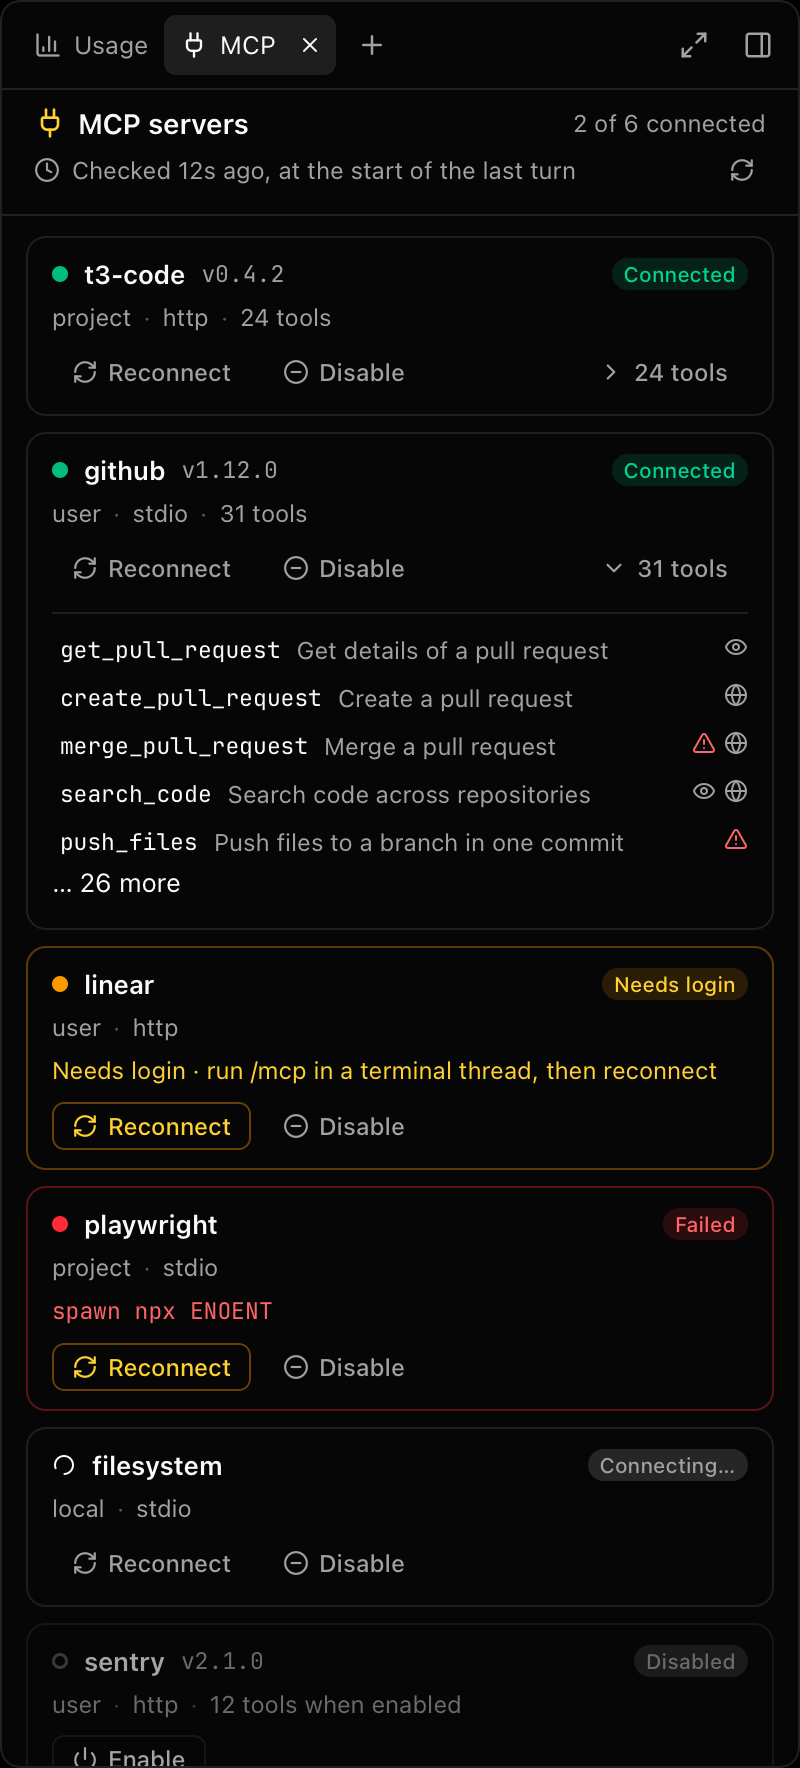
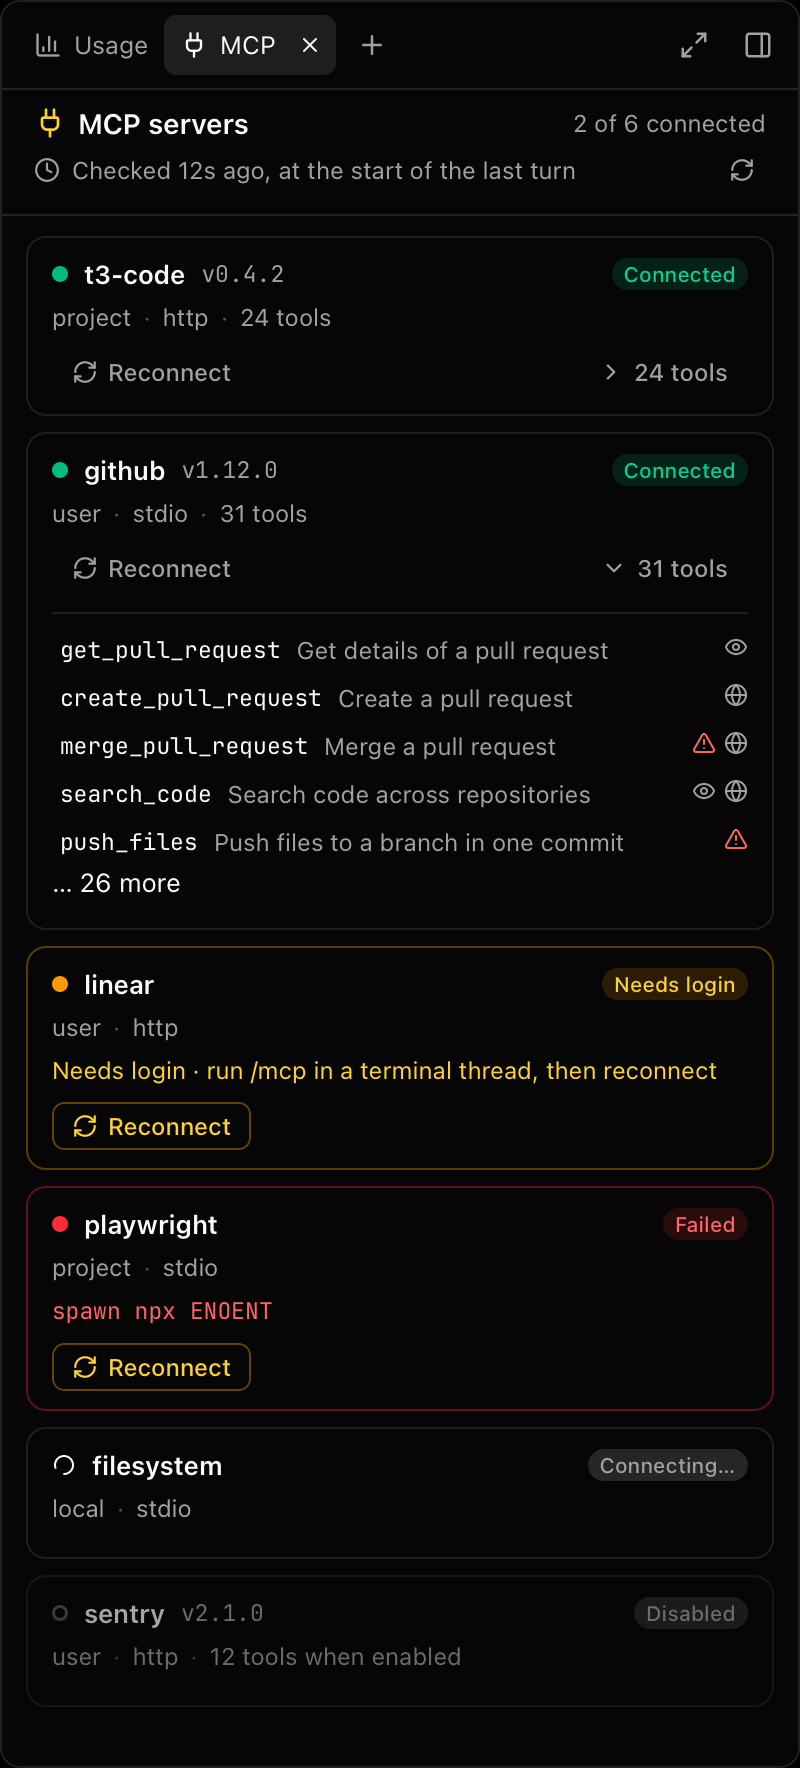
docs: MCP panel sketch B final (reconnect only, annotation tooltips)

diff --git a/docs/sketches/mcp-panel/mcp.js b/docs/sketches/mcp-panel/mcp.js
@@ -115,9 +115,10 @@ function variantB() {
     const cls = s.status === 'failed' ? 'bad' : s.status === 'needs-auth' ? 'needs' : s.status === 'disabled' ? 'off' : '';
     const meta = [s.scope, s.transport, s.status === 'connected' ? `${s.toolCount} tools` : s.status === 'disabled' && s.toolCount ? `${s.toolCount} tools when enabled` : ''].filter(Boolean).join('<span class="sep"> · </span>');
     const detail = s.error ? `<div class="err"><span class="mono">${s.error}</span></div>` : s.note ? `<div class="note">${s.note}</div>` : '';
-    const acts = s.status === 'disabled'
-      ? `<span class="btn">${ic('power')}Enable</span>`
-      : `<span class="btn ${s.status === 'needs-auth' || s.status === 'failed' ? 'warn' : 'quiet'}">${ic('refresh-cw')}Reconnect</span><span class="btn quiet">${ic('circle-minus')}Disable</span>`;
+    // Decision (Alex, 2026-10-12): Reconnect is the only action; no Disable/Enable. A
+    // disabled server (Claude's config) just shows as disabled; a pending one has nothing.
+    const acts = s.status === 'disabled' || s.status === 'pending' ? ''
+      : `<span class="btn ${s.status === 'needs-auth' || s.status === 'failed' ? 'warn' : 'quiet'}">${ic('refresh-cw')}Reconnect</span>`;
     const tools = s.tools.length ? `<span class="btn quiet tools-btn">${ic(open ? 'chevron-down' : 'chevron-right')}${s.toolCount} tools</span>` : '';
     return `<div class="card ${cls}">
       <div class="top">${s.status === 'pending' ? ic('loader-circle', 'spin', 12) : `<span class="dot ${DOT[s.status]}"></span>`}<span class="name">${s.name}</span>${s.version ? `<span class="ver">v${s.version}</span>` : ''}<span class="pill ${DOT[s.status]}">${LABEL[s.status]}</span></div>

diff --git a/docs/sketches/mcp-panel/DESIGN.md b/docs/sketches/mcp-panel/DESIGN.md
@@ -26,3 +26,10 @@ was last checked (each `system/init`, i.e. the start of a turn) and a refresh bu
   Attention rows carry a single amber action button (Reconnect / Retry) inline; connected
   rows show the tool count with hover actions; disabled rows a muted Enable. Two-line
   rows (name, then scope · transport · version or the error).
+
+## Decisions (Alex, 2026-10-12)
+
+**Variant B.** Reconnect is the only action: no Disable/Enable buttons (a server disabled
+in Claude's config shows as disabled, nothing to do here; the header's refresh button
+re-asks `mcp_status`). Keep the tool annotation icons, each with a tooltip naming the
+hint (read-only, destructive, open-world, writes). `shots/b-*.png` are the final state.
